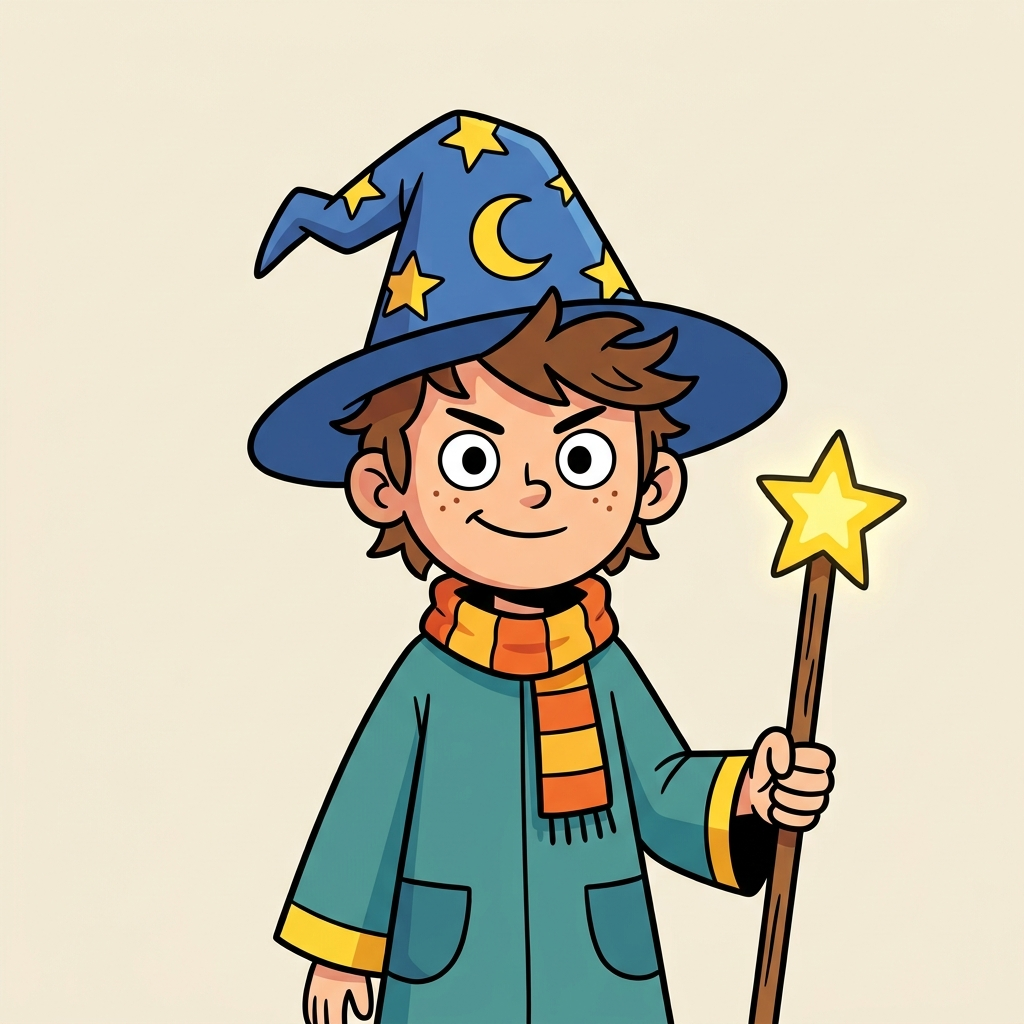
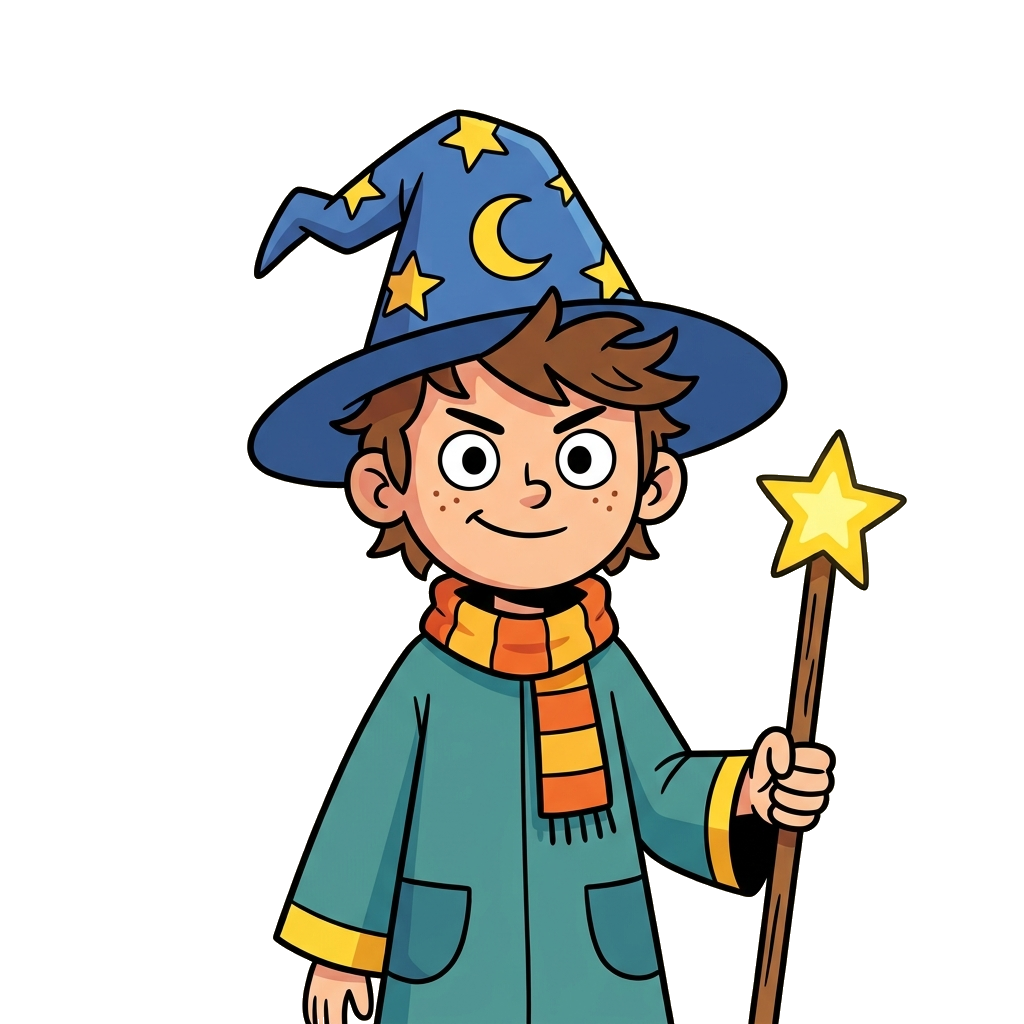
feat: transparent portraits; art guide asks for alpha and knocks out flat colour as fallback

diff --git a/docs/art-style.md b/docs/art-style.md
@@ -20,20 +20,21 @@ and slightly silly tone suitable for a 10-year-old. Clean composition with a sin
 | Kind       | Spec sentence (append verbatim)                                                                                              |
 | ---------- | ---------------------------------------------------------------------------------------------------------------------------- |
 | Background | Aspect ratio is 16:9. This is a full scene with no characters; leave the center calm.                                        |
-| Monster    | Aspect ratio is 1:1. Whole body visible, facing the viewer, on a plain flat single-color background (#F4EFE6).               |
-| Character  | Aspect ratio is 1:1. Waist up, facing the viewer, on a plain flat single-color background (#F4EFE6).                         |
-| Loot       | Aspect ratio is 1:1. One object, centered, on a plain flat single-color background (#F4EFE6).                                |
+| Monster    | Aspect ratio is 1:1. Whole body visible, facing the viewer, on a transparent background: a PNG with an alpha channel.             |
+| Character  | Aspect ratio is 1:1. Waist up, facing the viewer, on a transparent background: a PNG with an alpha channel.                       |
+| Loot       | Aspect ratio is 1:1. One object, centered, on a transparent background: a PNG with an alpha channel.                              |
 
-Characters and Loot are displayed inside a framed panel on a plain ground, so their flat backgrounds
-stay. Monsters stand in front of a scene background, so their flat colour is knocked out before
-committing (issue #4):
+Everything except a Background is transparent: monsters stand in front of a scene, and portraits and
+Loot sit on the page ground, which is never quite the generator's beige. If a generated file comes
+back on a flat colour anyway (check the corners), knock it out before committing:
 
 ```bash
-python3 scripts/knockout.py public/art/monster/<slug>.png
+python3 scripts/knockout.py public/art/<kind>/<slug>.png
 ```
 
-The script samples the corner colour and clears only what is reachable from the border, so ask for
-the plain background as usual and let the script remove it. Commit files as
+The script samples the corner colour and clears only what is reachable from the border, so a
+similar colour inside the figure survives. A JPEG cannot carry alpha, so re-encode first.
+Commit files as
 `public/art/<kind>/<slug>.png` (kind in lowercase: `background`, `monster`, `character`, `loot`).
 ChatGPT downloads are sometimes JPEG data with a `.png` name (character-01 was). Re-encode before
 committing:
@@ -75,7 +76,7 @@ python3 scripts/favicon.py <generated>.jpg
 
 ## Prompts
 
-Complete and paste-ready.
+Complete and paste-ready. The prompts below predate the transparent-background spec; their images were knocked out afterwards.
 
 ### castle-02: Fortress of Twelves, a monster lair (background)
 
